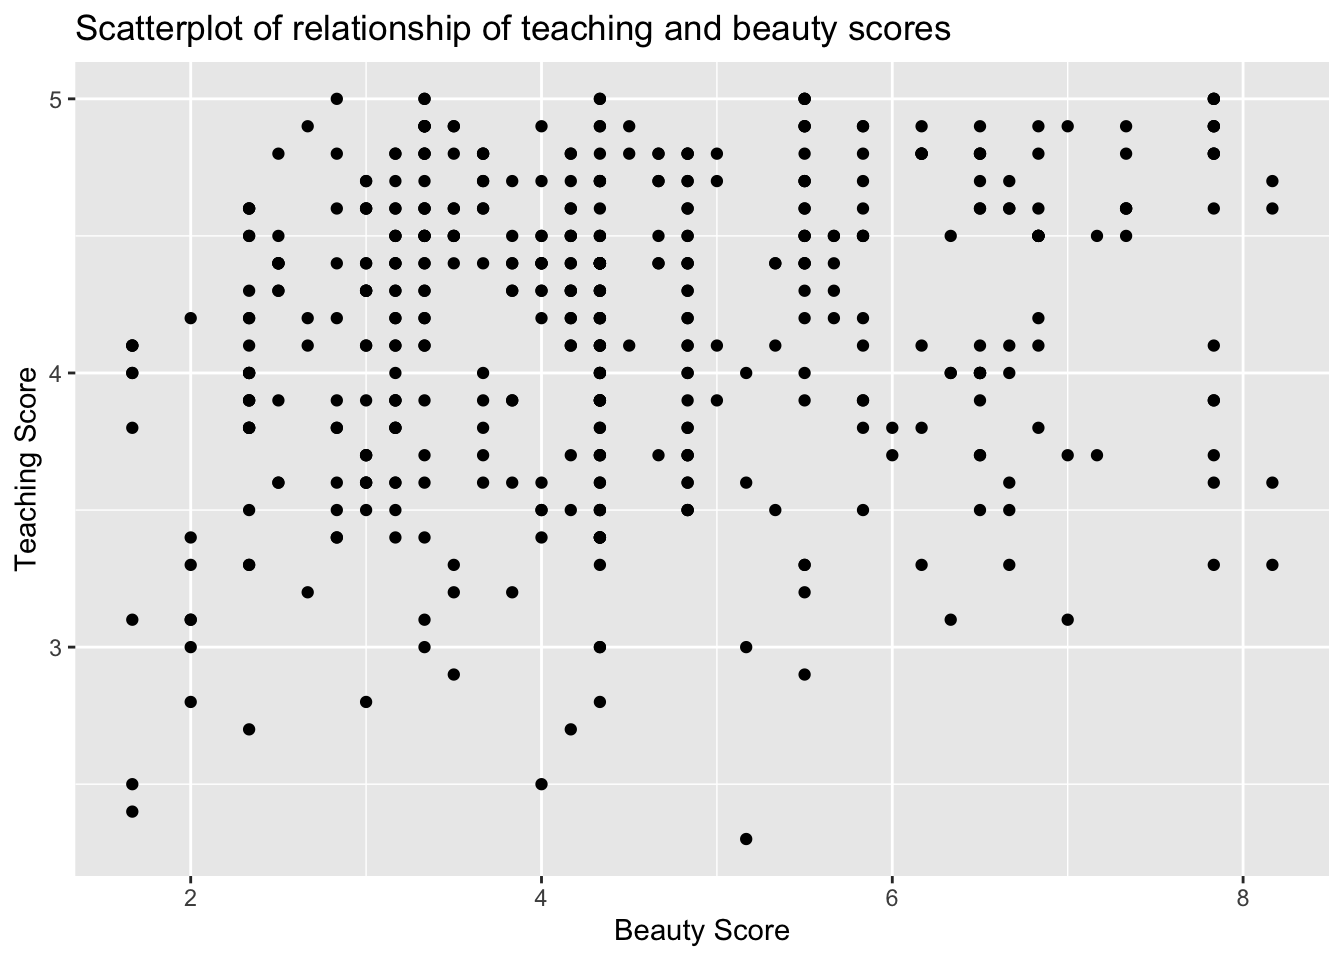
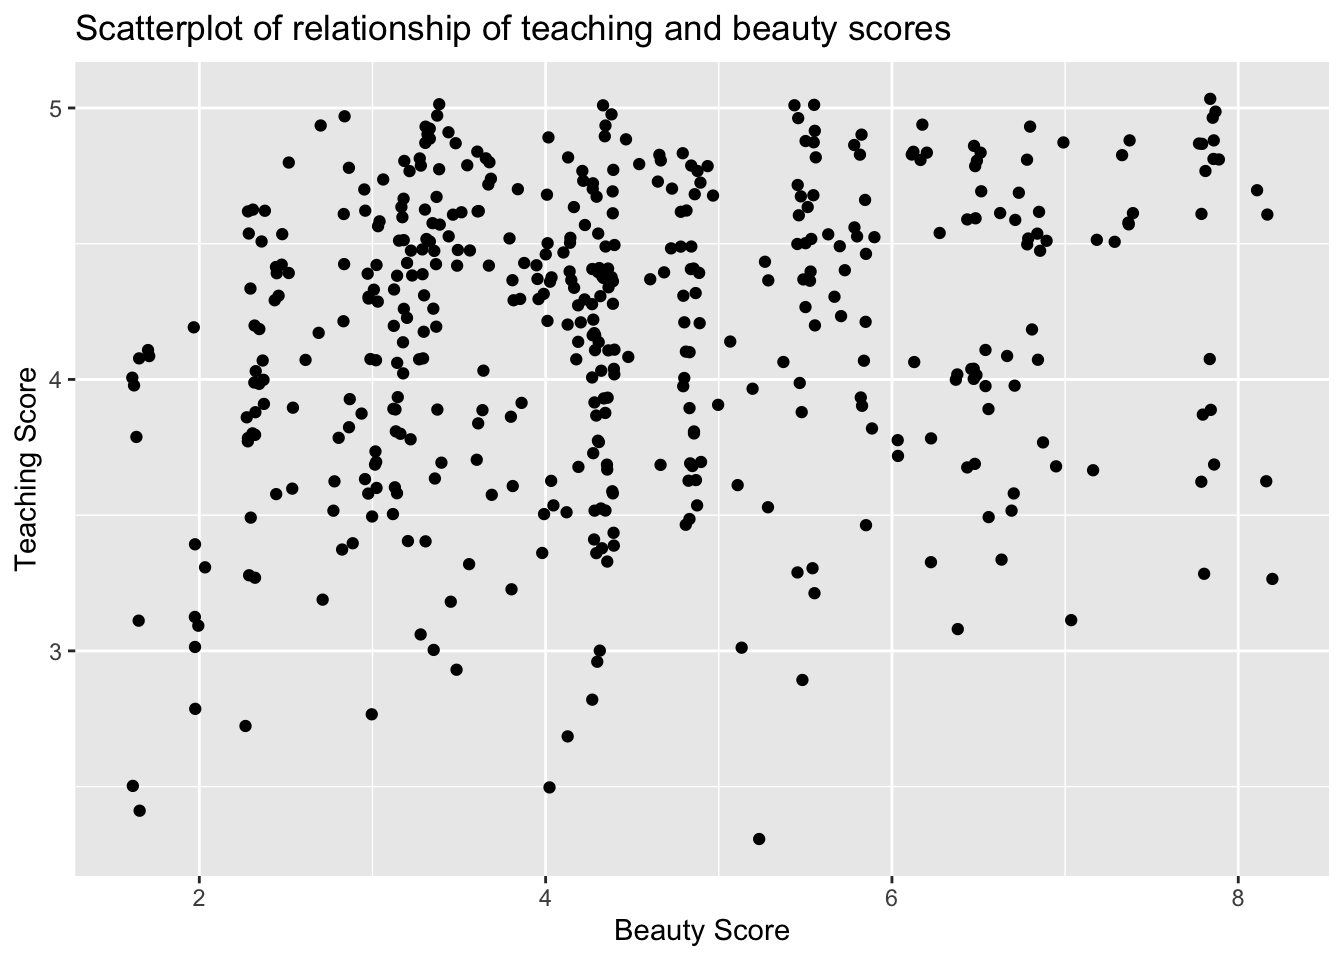
Professor Eval

diff --git a/content/post/2022-02-28-professor-evaluations/index.html b/content/post/2022-02-28-professor-evaluations/index.html
@@ -49,11 +49,11 @@ library(gapminder)</code></pre>
 <pre><code>## # A tibble: 5 × 4
 ##      ID score bty_avg   age
 ##   &lt;int&gt; &lt;dbl&gt;   &lt;dbl&gt; &lt;int&gt;
-## 1    71   4      4.83    42
-## 2   176   4.7    5.5     39
-## 3    11   3.8    3.17    40
-## 4    80   3.3    5.5     37
-## 5     4   4.8    5       36</code></pre>
+## 1   263   4.8    3.17    52
+## 2   459   4.5    6.83    32
+## 3   284   4      1.67    34
+## 4   394   4.8    3.33    45
+## 5   228   4.7    8.17    39</code></pre>
 </div>
 <div id="mean-and-median-of-bty-and-score" class="section level2">
 <h2>Mean and Median of BTY and Score</h2>
@@ -175,5 +175,83 @@ library(gapminder)</code></pre>
        y = &quot;Teaching Score&quot;,
        title = &quot;Scatterplot of relationship of teaching and beauty scores&quot;)</code></pre>
 <p><img src="{{< blogdown/postref >}}index_files/figure-html/unnamed-chunk-8-1.png" width="672" /></p>
+</div>
+<div id="scatter-plot-with-jitter" class="section level2">
+<h2>Scatter Plot with Jitter</h2>
+<pre class="r"><code>ggplot(evals_ch5, aes(x = bty_avg, y = score)) +
+  geom_jitter() +
+  labs(x = &quot;Beauty Score&quot;, y = &quot;Teaching Score&quot;,
+       title = &quot;Scatterplot of relationship of teaching and beauty scores&quot;)</code></pre>
+<p><img src="{{< blogdown/postref >}}index_files/figure-html/unnamed-chunk-9-1.png" width="672" /></p>
+</div>
+<div id="linear-regression-line-on-the-scatter-plot" class="section level2">
+<h2>Linear Regression Line on the Scatter Plot</h2>
+<pre class="r"><code>ggplot(evals_ch5, aes(x = bty_avg, y = score)) +
+  geom_point() +
+  labs(x = &quot;Beauty Score&quot;, y = &quot;Teaching Score&quot;,
+       title = &quot;Relationship between teaching and beauty scores&quot;) +  
+  geom_smooth(method = &quot;lm&quot;, se = FALSE)</code></pre>
+<pre><code>## `geom_smooth()` using formula &#39;y ~ x&#39;</code></pre>
+<p><img src="{{< blogdown/postref >}}index_files/figure-html/unnamed-chunk-10-1.png" width="672" /></p>
+</div>
+<div id="linear-regression" class="section level2">
+<h2>Linear Regression</h2>
+<pre class="r"><code># Fit regression model:
+score_model &lt;- lm(score ~ bty_avg, data = evals_ch5)
+# Get regression table:
+get_regression_table(score_model)</code></pre>
+<pre><code>## # A tibble: 2 × 7
+##   term      estimate std_error statistic p_value lower_ci upper_ci
+##   &lt;chr&gt;        &lt;dbl&gt;     &lt;dbl&gt;     &lt;dbl&gt;   &lt;dbl&gt;    &lt;dbl&gt;    &lt;dbl&gt;
+## 1 intercept    3.88      0.076     51.0        0    3.73     4.03 
+## 2 bty_avg      0.067     0.016      4.09       0    0.035    0.099</code></pre>
+</div>
+<div id="fitting-the-regression-model" class="section level2">
+<h2>Fitting the Regression Model</h2>
+<pre class="r"><code>regression_points &lt;- get_regression_points(score_model)
+regression_points</code></pre>
+<pre><code>## # A tibble: 463 × 5
+##       ID score bty_avg score_hat residual
+##    &lt;int&gt; &lt;dbl&gt;   &lt;dbl&gt;     &lt;dbl&gt;    &lt;dbl&gt;
+##  1     1   4.7    5         4.21    0.486
+##  2     2   4.1    5         4.21   -0.114
+##  3     3   3.9    5         4.21   -0.314
+##  4     4   4.8    5         4.21    0.586
+##  5     5   4.6    3         4.08    0.52 
+##  6     6   4.3    3         4.08    0.22 
+##  7     7   2.8    3         4.08   -1.28 
+##  8     8   4.1    3.33      4.10   -0.002
+##  9     9   3.4    3.33      4.10   -0.702
+## 10    10   4.5    3.17      4.09    0.409
+## # … with 453 more rows</code></pre>
+</div>
+<div id="exploratory-data-analysis" class="section level2">
+<h2>Exploratory Data Analysis</h2>
+<pre class="r"><code>library(gapminder)
+gapminder2007 &lt;- gapminder %&gt;%
+  filter(year == 2007) %&gt;%
+  select(country, lifeExp, continent, gdpPercap)</code></pre>
+</div>
+<div id="explore-data" class="section level2">
+<h2>Explore Data</h2>
+<pre class="r"><code>glimpse(gapminder2007)</code></pre>
+<pre><code>## Rows: 142
+## Columns: 4
+## $ country   &lt;fct&gt; &quot;Afghanistan&quot;, &quot;Albania&quot;, &quot;Algeria&quot;, &quot;Angola&quot;, &quot;Argentina&quot;, …
+## $ lifeExp   &lt;dbl&gt; 43.828, 76.423, 72.301, 42.731, 75.320, 81.235, 79.829, 75.6…
+## $ continent &lt;fct&gt; Asia, Europe, Africa, Africa, Americas, Oceania, Europe, Asi…
+## $ gdpPercap &lt;dbl&gt; 974.5803, 5937.0295, 6223.3675, 4797.2313, 12779.3796, 34435…</code></pre>
+</div>
+<div id="sample-the-data-1" class="section level2">
+<h2>Sample the Data</h2>
+<pre class="r"><code>gapminder2007 %&gt;% sample_n(size = 5)</code></pre>
+<pre><code>## # A tibble: 5 × 4
+##   country          lifeExp continent gdpPercap
+##   &lt;fct&gt;              &lt;dbl&gt; &lt;fct&gt;         &lt;dbl&gt;
+## 1 Congo, Dem. Rep.    46.5 Africa         278.
+## 2 Puerto Rico         78.7 Americas     19329.
+## 3 Kenya               54.1 Africa        1463.
+## 4 Morocco             71.2 Africa        3820.
+## 5 Swaziland           39.6 Africa        4513.</code></pre>
 </div>
 </div>
